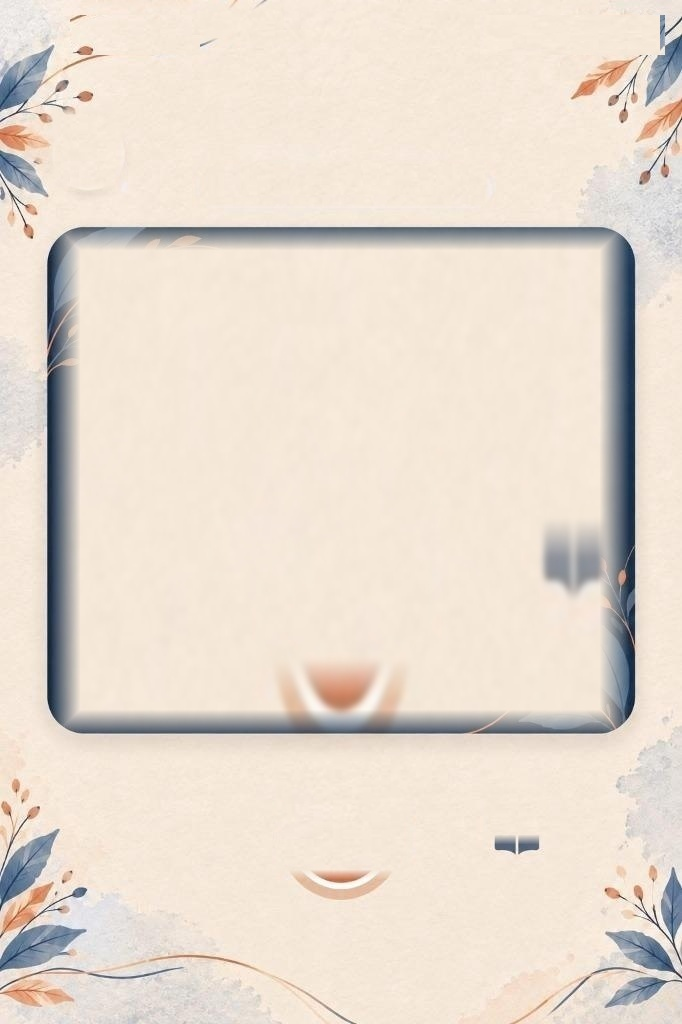
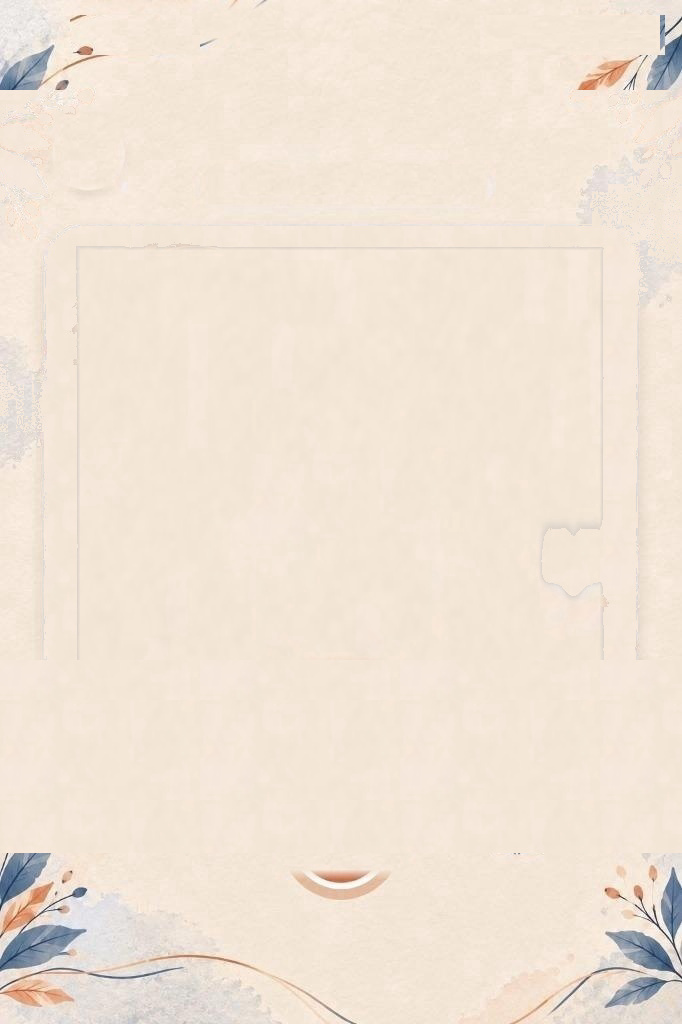
fix(scanner): remove duplicate ghost controls and artifact shadows from background and corner leaves

diff --git a/screens/CameraScannerScreen.tsx b/screens/CameraScannerScreen.tsx
@@ -620,6 +620,7 @@ const styles = StyleSheet.create({
   container: {
     flex: 1,
     backgroundColor: '#FAF5EE',
+    justifyContent: 'space-between',
   },
   header: {
     flexDirection: 'row',
@@ -730,10 +731,10 @@ const styles = StyleSheet.create({
   content: {
     width: '90%',
     alignSelf: 'center',
-    height: Math.min(SCREEN_WIDTH * 1.05, 430),
-    maxHeight: 450,
+    flex: 1,
+    maxHeight: 460,
     marginTop: 6,
-    marginBottom: 12,
+    marginBottom: 8,
     borderRadius: 28,
     overflow: 'hidden',
     backgroundColor: '#152238',
@@ -1276,7 +1277,8 @@ const styles = StyleSheet.create({
     color: '#FFFFFF',
   },
   footer: {
-    paddingVertical: 18,
+    paddingTop: 10,
+    paddingBottom: Platform.OS === 'ios' ? 38 : 24,
     paddingHorizontal: 24,
   },
   footerRow: {
